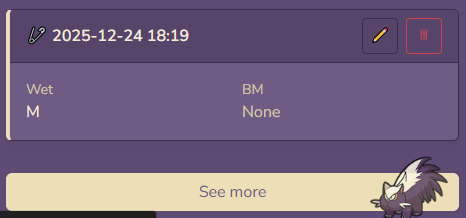
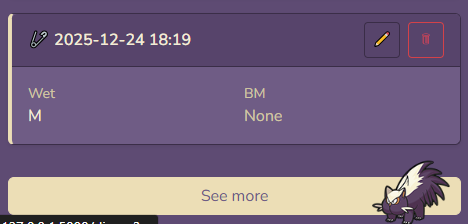
Update screenshots to display latest UI changes

diff --git a/README.md b/README.md
@@ -65,6 +65,16 @@ The goal was not to build a complex analytics platform, but a simple, reliable t
     <em>Pagination via “See more” button for long-term, high-volume logs.</em>
 </p>
 
+<p align="center">
+    <img src="screenshots/diapers_03_new_diaper_form.png" alt="Dashboard"
+         style="box-shadow:0 2px 8px rgba(0,0,0,0.15); border-radius:6px;">
+</p>
+
+<p align="center">
+    <em>The same form layout is used across all log types, with fields tailored to each entry (e.g., medication dosage).
+</em>
+</p>
+
 ### Feed Log
 <p align="center">
     <img src="screenshots/feeds.png" alt="Dashboard"
